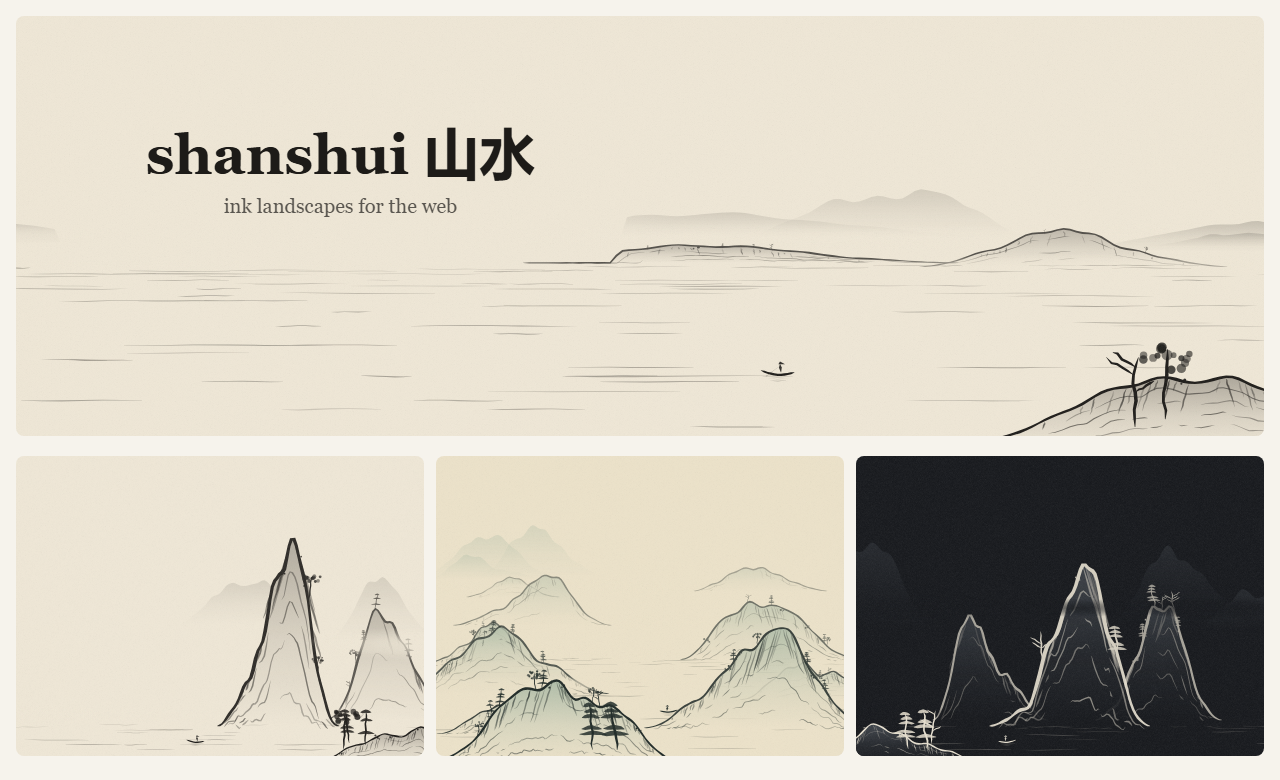
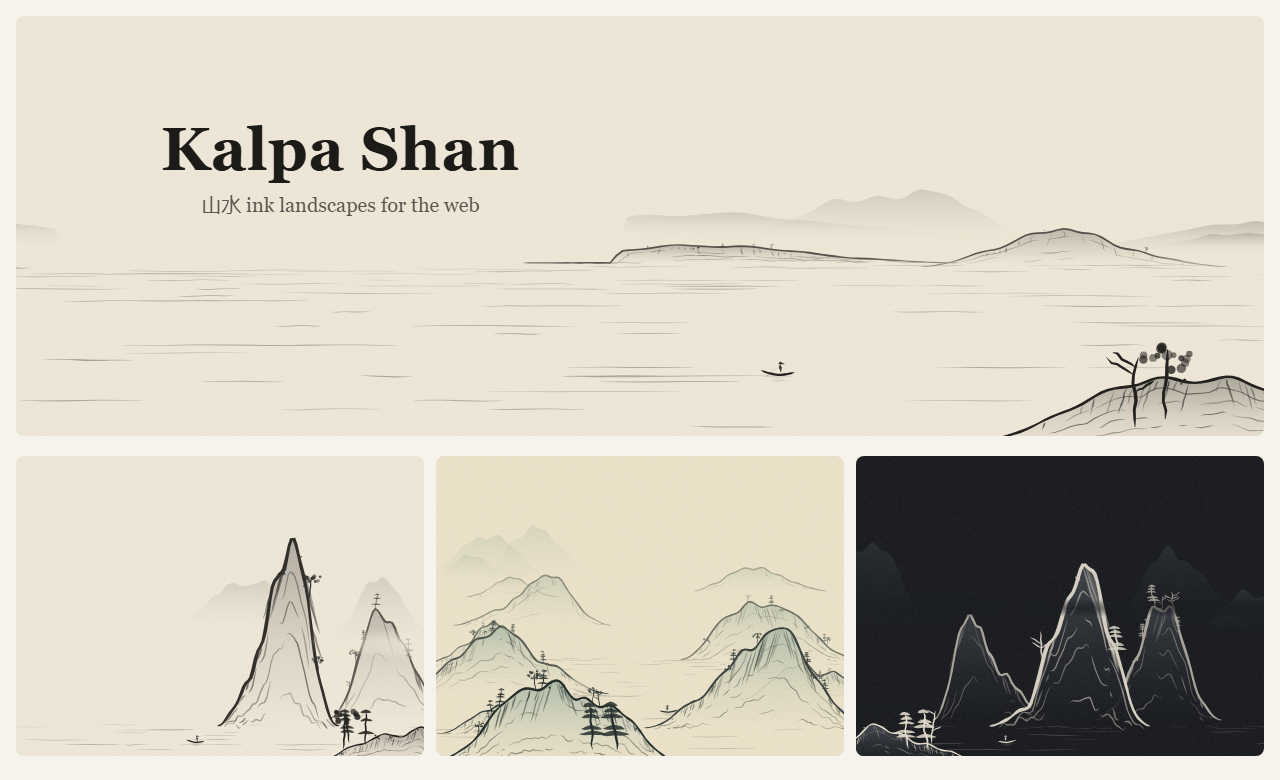
refactor!: rename shanshui to Kalpa Shan (kalpa-shan)
npm rejects 'shanshui' because it matches the squatted 'shan-shui' once
punctuation is removed, so the project takes its own name: Kalpa (Sanskrit,
creation/aeon) + Shan (Chinese, mountain).

- package kalpa-shan, entry points kalpa-shan and kalpa-shan/element
- web component <kalpa-shan>, class KalpaShanElement, defineKalpaShan()
- CDN bundle dist/kalpa-shan.iife.js exposing window.KalpaShan
- brand colour vars --kalpa-ink, --kalpa-paper, --kalpa-wash
- repository links point to github.com/barada02/kalpa-shan
- READMEs gain an 'About the name' section; preview image updated

BREAKING CHANGE: every public name changed. Nothing was published yet.

Changed region(s): [[0.0938, 0.1538, 0.4375, 0.2769]]

diff --git a/apps/playground/element.html b/apps/playground/element.html
@@ -3,11 +3,11 @@
   <head>
     <meta charset="UTF-8" />
     <meta name="viewport" content="width=device-width, initial-scale=1.0" />
-    <title>shanshui web component</title>
+    <title>Kalpa Shan web component</title>
   </head>
   <body>
     <header class="top">
-      <h1>shanshui <span class="zh">山水</span></h1>
+      <h1>Kalpa Shan <span class="zh">山水</span></h1>
       <nav class="nav">
         <a href="./">Playground</a>
         <a href="./element.html" aria-current="page">Web component</a>
@@ -17,30 +17,30 @@
     <main class="demos">
       <section class="demo">
         <h2 class="demo-title">Hero with content in the empty space</h2>
-        <shan-shui class="hero" seed="welcome" distance="level" space="left" animate>
+        <kalpa-shan class="hero" seed="welcome" distance="level" space="left" animate>
           <div class="hero-copy">
             <h3>Quiet software for busy people</h3>
             <p>Slotted content is placed in the painting's empty space automatically.</p>
             <a class="cta" href="#">Get started</a>
           </div>
-        </shan-shui>
-        <pre class="code"><code>&lt;script type="module"&gt;import 'shanshui/element'&lt;/script&gt;
+        </kalpa-shan>
+        <pre class="code"><code>&lt;script type="module"&gt;import 'kalpa-shan/element'&lt;/script&gt;
 
-&lt;shan-shui seed="welcome" distance="level" space="left" animate&gt;
+&lt;kalpa-shan seed="welcome" distance="level" space="left" animate&gt;
   &lt;h1&gt;Quiet software for busy people&lt;/h1&gt;
   &lt;a href="/start"&gt;Get started&lt;/a&gt;
-&lt;/shan-shui&gt;</code></pre>
+&lt;/kalpa-shan&gt;</code></pre>
       </section>
 
       <section class="demo">
         <h2 class="demo-title">Brand colours from CSS</h2>
-        <shan-shui class="brand" seed="forest-co" distance="deep" space="top" animate>
+        <kalpa-shan class="brand" seed="forest-co" distance="deep" space="top" animate>
           <h3 class="brand-title">Forest &amp; Co.</h3>
-        </shan-shui>
-        <pre class="code"><code>shan-shui.brand {
-  --shanshui-ink: #0f3b2c;
-  --shanshui-paper: #f2f0e6;
-  --shanshui-wash: #2f7d5b;
+        </kalpa-shan>
+        <pre class="code"><code>kalpa-shan.brand {
+  --kalpa-ink: #0f3b2c;
+  --kalpa-paper: #f2f0e6;
+  --kalpa-wash: #2f7d5b;
 }</code></pre>
       </section>
 
@@ -48,26 +48,26 @@
         <h2 class="demo-title">A unique cover for every post (seed = slug)</h2>
         <div class="cards">
           <article class="card">
-            <shan-shui seed="notes-on-slowness" density="0.4" grain="false"></shan-shui>
+            <kalpa-shan seed="notes-on-slowness" density="0.4" grain="false"></kalpa-shan>
             <h3>Notes on slowness</h3>
           </article>
           <article class="card">
-            <shan-shui seed="a-year-of-letters" density="0.4" grain="false" palette="qinglu"></shan-shui>
+            <kalpa-shan seed="a-year-of-letters" density="0.4" grain="false" palette="qinglu"></kalpa-shan>
             <h3>A year of letters</h3>
           </article>
           <article class="card">
-            <shan-shui seed="rivers-and-routers" density="0.4" grain="false" palette="mist"></shan-shui>
+            <kalpa-shan seed="rivers-and-routers" density="0.4" grain="false" palette="mist"></kalpa-shan>
             <h3>Rivers and routers</h3>
           </article>
         </div>
-        <pre class="code"><code>&lt;shan-shui seed="{{ post.slug }}" density="0.4" grain="false"&gt;&lt;/shan-shui&gt;</code></pre>
+        <pre class="code"><code>&lt;kalpa-shan seed="{{ post.slug }}" density="0.4" grain="false"&gt;&lt;/kalpa-shan&gt;</code></pre>
       </section>
 
       <section class="demo">
         <h2 class="demo-title">Driven by attributes</h2>
-        <shan-shui id="live" class="night" seed="moon" palette="night" distance="high" space="center" animate>
+        <kalpa-shan id="live" class="night" seed="moon" palette="night" distance="high" space="center" animate>
           <h3 class="night-title">月下 · beneath the moon</h3>
-        </shan-shui>
+        </kalpa-shan>
         <div class="actions">
           <button type="button" id="next">New seed</button>
           <button type="button" id="cycle">Next distance</button>

diff --git a/packages/core/src/element.ts b/packages/core/src/element.ts
@@ -4,12 +4,12 @@ import { resolveSpace } from './space'
 import type { AnimateOptions, LandscapeOptions, Palette, PaletteName, SpaceBox, SpacePreset } from './types'
 
 /*
- * <shan-shui seed="home" distance="high" space="left" animate>
+ * <kalpa-shan seed="home" distance="high" space="left" animate>
  *   <h1>Content placed in the empty space</h1>
- * </shan-shui>
+ * </kalpa-shan>
  *
  * Attributes mirror LandscapeOptions. Brand colours can come from CSS:
- *   shan-shui { --shanshui-ink: #123; --shanshui-paper: #fff; --shanshui-wash: #456 }
+ *   kalpa-shan { --kalpa-ink: #123; --kalpa-paper: #fff; --kalpa-wash: #456 }
  */
 
 const ATTRIBUTES = [
@@ -54,7 +54,7 @@ function parseSpace(value: string | null): SpacePreset | SpaceBox | undefined {
   return value as SpacePreset
 }
 
-export class ShanShuiElement extends Base {
+export class KalpaShanElement extends Base {
   static observedAttributes = [...ATTRIBUTES]
 
   private art: HTMLDivElement | null = null
@@ -140,15 +140,15 @@ export class ShanShuiElement extends Base {
     return opts
   }
 
-  /** A named palette, overridden per colour by --shanshui-* custom properties. */
+  /** A named palette, overridden per colour by --kalpa-* custom properties. */
   private readPalette(): PaletteName | Palette {
     const name = (this.getAttribute('palette') as PaletteName) || 'sumi'
     const base = palettes[name] ?? palettes.sumi
     const css = getComputedStyle(this)
     const read = (prop: string) => css.getPropertyValue(prop).trim()
-    const ink = read('--shanshui-ink')
-    const paper = read('--shanshui-paper')
-    const wash = read('--shanshui-wash')
+    const ink = read('--kalpa-ink')
+    const paper = read('--kalpa-paper')
+    const wash = read('--kalpa-wash')
     if (!ink && !paper && !wash) return name
     return { ink: ink || base.ink, paper: paper || base.paper, wash: wash || base.wash }
   }
@@ -172,15 +172,15 @@ export class ShanShuiElement extends Base {
 }
 
 /** Register the element (done automatically on import). Safe to call more than once. */
-export function defineShanShui(tag = 'shan-shui'): void {
+export function defineKalpaShan(tag = 'kalpa-shan'): void {
   if (typeof customElements === 'undefined' || customElements.get(tag)) return
-  customElements.define(tag, class extends ShanShuiElement {})
+  customElements.define(tag, class extends KalpaShanElement {})
 }
 
-defineShanShui()
+defineKalpaShan()
 
 declare global {
   interface HTMLElementTagNameMap {
-    'shan-shui': ShanShuiElement
+    'kalpa-shan': KalpaShanElement
   }
 }

diff --git a/apps/playground/src/main.ts b/apps/playground/src/main.ts
@@ -7,7 +7,7 @@ import {
   type LandscapeOptions,
   type PaletteName,
   type SpacePreset,
-} from 'shanshui'
+} from 'kalpa-shan'
 import './style.css'
 
 const $ = <T extends HTMLElement>(id: string) => document.getElementById(id) as T
@@ -74,7 +74,7 @@ function snippet(opts: LandscapeOptions) {
   for (const [k, v] of Object.entries(opts)) {
     if (k !== 'seed' && DEFAULTS[k as keyof LandscapeOptions] !== v) shown[k] = v
   }
-  return `import { createLandscape } from 'shanshui'\n\ncreateLandscape('#hero', ${JSON.stringify(shown, null, 2)})`
+  return `import { createLandscape } from 'kalpa-shan'\n\ncreateLandscape('#hero', ${JSON.stringify(shown, null, 2)})`
 }
 
 applyAspect()
@@ -125,7 +125,7 @@ $('download').addEventListener('click', () => {
   const blob = new Blob([landscape.toSVG()], { type: 'image/svg+xml' })
   const a = document.createElement('a')
   a.href = URL.createObjectURL(blob)
-  a.download = `shanshui-${seedInput.value}.svg`
+  a.download = `kalpa-shan-${seedInput.value}.svg`
   a.click()
   URL.revokeObjectURL(a.href)
 })

diff --git a/packages/core/vite.config.ts b/packages/core/vite.config.ts
@@ -1,12 +1,12 @@
 import { defineConfig } from 'vite'
 import dts from 'vite-plugin-dts'
 
-// npm build: ESM + CJS, with `shanshui` and `shanshui/element` entry points.
+// npm build: ESM + CJS, with `kalpa-shan` and `kalpa-shan/element` entry points.
 // The CDN bundle is built separately by vite.cdn.config.ts (IIFE can't have multiple entries).
 export default defineConfig({
   build: {
     lib: {
-      entry: { shanshui: 'src/index.ts', element: 'src/element.ts' },
+      entry: { 'kalpa-shan': 'src/index.ts', element: 'src/element.ts' },
       formats: ['es', 'cjs'],
       fileName: (format, entryName) => `${entryName}.${format === 'es' ? 'js' : 'cjs'}`,
     },

diff --git a/apps/playground/src/element.ts b/apps/playground/src/element.ts
@@ -1,10 +1,10 @@
-import 'shanshui/element'
-import type { ShanShuiElement } from 'shanshui/element'
-import { randomSeed } from 'shanshui'
+import 'kalpa-shan/element'
+import type { KalpaShanElement } from 'kalpa-shan/element'
+import { randomSeed } from 'kalpa-shan'
 import './style.css'
 import './element.css'
 
-const live = document.querySelector<ShanShuiElement>('#live')!
+const live = document.querySelector<KalpaShanElement>('#live')!
 const distances = ['level', 'high', 'deep']
 
 document.getElementById('next')!.addEventListener('click', () => live.setAttribute('seed', randomSeed()))

diff --git a/packages/core/vite.cdn.config.ts b/packages/core/vite.cdn.config.ts
@@ -1,14 +1,14 @@
 import { defineConfig } from 'vite'
 
-// CDN bundle: one self-contained, minified script exposing `window.Shanshui`
-// and registering <shan-shui>.
+// CDN bundle: one self-contained, minified script exposing `window.KalpaShan`
+// and registering <kalpa-shan>.
 export default defineConfig({
   build: {
     lib: {
       entry: 'src/cdn.ts',
-      name: 'Shanshui',
+      name: 'KalpaShan',
       formats: ['iife'],
-      fileName: () => 'shanshui.iife.js',
+      fileName: () => 'kalpa-shan.iife.js',
     },
     emptyOutDir: false,
     sourcemap: true,

diff --git a/apps/playground/src/element.css b/apps/playground/src/element.css
@@ -8,7 +8,7 @@
   font-weight: 600;
 }
 
-shan-shui {
+kalpa-shan {
   border-radius: 10px;
   border: 1px solid var(--line);
 }
@@ -47,9 +47,9 @@ shan-shui {
 
 /* Brand colours */
 .brand {
-  --shanshui-ink: #0f3b2c;
-  --shanshui-paper: #f2f0e6;
-  --shanshui-wash: #2f7d5b;
+  --kalpa-ink: #0f3b2c;
+  --kalpa-paper: #f2f0e6;
+  --kalpa-wash: #2f7d5b;
   aspect-ratio: 16 / 7;
 }
 
@@ -75,7 +75,7 @@ shan-shui {
   overflow: hidden;
 }
 
-.card shan-shui {
+.card kalpa-shan {
   aspect-ratio: 4 / 3;
   border: 0;
   border-radius: 0;

diff --git a/apps/playground/index.html b/apps/playground/index.html
@@ -3,11 +3,11 @@
   <head>
     <meta charset="UTF-8" />
     <meta name="viewport" content="width=device-width, initial-scale=1.0" />
-    <title>shanshui playground</title>
+    <title>Kalpa Shan playground</title>
   </head>
   <body>
     <header class="top">
-      <h1>shanshui <span class="zh">山水</span></h1>
+      <h1>Kalpa Shan <span class="zh">山水</span></h1>
       <nav class="nav">
         <a href="./" aria-current="page">Playground</a>
         <a href="./element.html">Web component</a>

diff --git a/packages/core/src/index.ts b/packages/core/src/index.ts
@@ -36,7 +36,7 @@ const BASE_HEIGHT = 600
  */
 export function createLandscape(target: Element | string, options: LandscapeOptions = {}): Landscape {
   const el = typeof target === 'string' ? document.querySelector(target) : target
-  if (!el) throw new Error(`shanshui: target "${String(target)}" not found`)
+  if (!el) throw new Error(`kalpa-shan: target "${String(target)}" not found`)
 
   let opts: LandscapeOptions = { ...options, seed: options.seed ?? randomSeed() }
   let svg = ''

diff --git a/packages/core/src/cdn.ts b/packages/core/src/cdn.ts
@@ -1,4 +1,4 @@
-// Entry for the CDN build (dist/shanshui.iife.js): the full API as `window.Shanshui`,
-// and <shan-shui> registered — all from one <script> tag.
+// Entry for the CDN build (dist/kalpa-shan.iife.js): the full API as `window.KalpaShan`,
+// and <kalpa-shan> registered — all from one <script> tag.
 export * from './index'
-export { defineShanShui, ShanShuiElement } from './element'
+export { defineKalpaShan, KalpaShanElement } from './element'

diff --git a/packages/core/src/render.ts b/packages/core/src/render.ts
@@ -27,7 +27,7 @@ export function renderSVG(options: LandscapeOptions = {}): string {
   const palette = resolvePalette(options.palette)
   const space = resolveSpace(options.space)
   const anim = resolveAnimate(options.animate)
-  const uid = `ss${hashSeed(seed).toString(36)}${(instanceCount++).toString(36)}`
+  const uid = `ks${hashSeed(seed).toString(36)}${(instanceCount++).toString(36)}`
   let idCount = 0
   const ctx: Ctx = {
     rng,

diff --git a/README.md b/README.md
@@ -1,15 +1,15 @@
-# shanshui 山水
+# Kalpa Shan
 
-**Procedurally generated Chinese ink landscapes for your website.**
+**Procedurally generated Chinese ink landscapes (山水, *shan shui*) for your website.**
 Hero backgrounds, headers and post covers, each one a unique painting from a seed.
 
-![shanshui: a hero with space for text, and the three compositions](docs/preview.png)
+![Kalpa Shan: a hero with space for text, and the three compositions](docs/preview.png)
 
 ## Why
 
 Traditional *shan shui* (山水, "mountain-water") painting has ideas that fit web design well:
 
-- **留白 (liú bái), "leaving white":** painters kept empty space on purpose. shanshui does the same for your headline. Say where your text goes, and the mountains move aside.
+- **留白 (liú bái), "leaving white":** painters kept empty space on purpose. Kalpa Shan does the same for your headline. Say where your text goes, and the mountains move aside.
 - **三远 (sān yuǎn), the three distances:** Guo Xi's 11th-century theory of composition. It gives three distinct layouts: a wide *level* view across water, a towering *high* peak, and a *deep* valley of receding ranges.
 - **Brushwork:** ridge lines, texture strokes (皴) and moss dots are drawn as ink strokes, and they can paint themselves in when the page loads.
 
@@ -31,33 +31,41 @@ Give it a seed, such as a page slug or a post title, and you get the same painti
 With no build step:
 
 ```html
-<script src="https://cdn.jsdelivr.net/npm/shanshui@0.1/dist/shanshui.iife.js"></script>
+<script src="https://cdn.jsdelivr.net/npm/kalpa-shan@0.1/dist/kalpa-shan.iife.js"></script>
 
-<shan-shui seed="welcome" space="left" animate style="aspect-ratio: 16 / 7">
+<kalpa-shan seed="welcome" space="left" animate style="aspect-ratio: 16 / 7">
   <h1>Your headline</h1>
-</shan-shui>
+</kalpa-shan>
 ```
 
 With npm:
 
 ```sh
-npm install shanshui
+npm install kalpa-shan
 ```
 
 ```js
-import 'shanshui/element'                    // registers <shan-shui>
-import { createLandscape } from 'shanshui'   // or use the JS API
+import 'kalpa-shan/element'                    // registers <kalpa-shan>
+import { createLandscape } from 'kalpa-shan'   // or use the JS API
 
 createLandscape('#hero', { seed: 'my-post', distance: 'high', space: 'left', animate: true })
 ```
 
 **Full documentation: [packages/core/README.md](packages/core/README.md)**
 
+## About the name
+
+**Kalpa** (कल्प) is Sanskrit for "creation", and for an aeon, a vast span of cosmic time. **Shan** (山) is Chinese for mountain.
+
+The two belong together. Asked how long a kalpa is, the Buddha answered with a mountain: picture a mountain of solid rock, a league high, and once every hundred years someone strokes it with a silk cloth. The mountain would wear away before the kalpa ends (*Pabbata Sutta*, SN 15.5). A cloth slowly shaping a mountain, much like a brush.
+
+The word itself made the same journey as the name. *Kalpa* travelled from India to China with Buddhism, where it became 劫 (jié).
+
 ## Try it locally
 
 ```sh
-git clone https://github.com/barada02/Mordern_Web_Art.git
-cd Mordern_Web_Art
+git clone https://github.com/barada02/kalpa-shan.git
+cd kalpa-shan
 npm install
 npm run dev
 ```
@@ -67,16 +75,14 @@ This opens a playground where you can change seeds, compositions, palettes and a
 ## Project structure
 
 ```
-packages/core      the `shanshui` library, published to npm
+packages/core      the `kalpa-shan` library, published to npm
 apps/playground    demo app that uses the library the way you would
 ```
 
 ## Credits
 
-Inspired by Lingdong Huang's beautiful [{Shan, Shui}\*](https://github.com/LingDong-/shan-shui-inf), an infinite procedural shan shui painting. shanshui is an independent implementation with a different goal: making paintings *for* your site.
+Inspired by Lingdong Huang's beautiful [{Shan, Shui}\*](https://github.com/LingDong-/shan-shui-inf), an infinite procedural shan shui painting. Kalpa Shan is an independent implementation with a different goal: making paintings *for* your site.
 
 ## License
 
 [MIT](LICENSE)
-
-dummy
